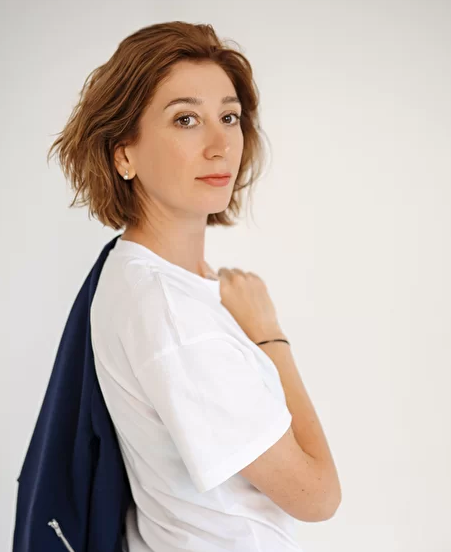
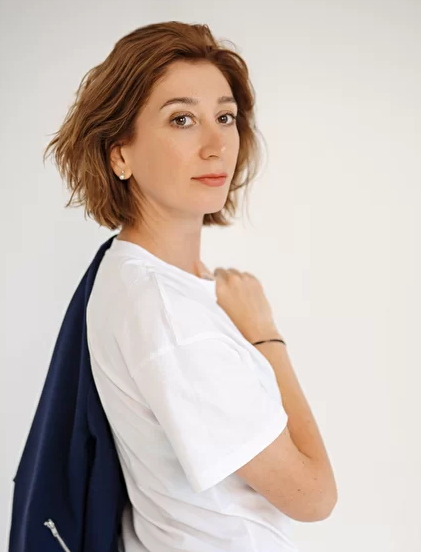
layout prepared for mobile devices

diff --git a/components/Cost.vue b/components/Cost.vue
@@ -1,47 +1,50 @@
 <!--NEXT Раздел "Стоимость"-->
 <template>
-<div class="col-md-12 s-container">
+<div class="col-12 s-container">
   <div>
     <h1 class="s-title">Стоимость услуг</h1>
     <div class="row">
-      <div class="col-md-1"></div>
-      <div class="col-md-4 block">
-        <h1 class="variant">Первичная консультация</h1>
-        <ul>
-          <li>На первой встрече я знакомлюсь, задаю вопросы, для меня важно услышать, с чем ты пришел, как устроена твоя жизнь</li>
-          <li>
-            Мне тоже можно задавать вопросы, это помогает снять напряжение ибо ты не на допросе. Диалог помогает развеять ожидания и страхи о терапии или того, что, терапевт- безупречный человек лишенный эмоций, препарирующий всех как лягушку взглядом
-          </li>
-          <li>
-            Мы обсудим, чего бы тебе хотелось от наших встреч и на основании того, что ты предъявляешь о себе, учитывая запрос, я предложу возможный формат работы
-          </li>
-          <li>Также мы обсудим границы наших отношений и график дальнейших встреч</li>
-        </ul>
-        <h2 class="text-center">3500руб / 50 мин</h2>
+      <div class="col-lg-6">
+        <div class="block">
+          <h1 class="variant">Первичная консультация</h1>
+          <ul>
+            <li>На первой встрече я знакомлюсь, задаю вопросы, для меня важно услышать, с чем ты пришел, как устроена твоя жизнь</li>
+            <li>
+              Мне тоже можно задавать вопросы, это помогает снять напряжение ибо ты не на допросе. Диалог помогает развеять ожидания и страхи о терапии или того, что, терапевт- безупречный человек лишенный эмоций, препарирующий всех как лягушку взглядом
+            </li>
+            <li>
+              Мы обсудим, чего бы тебе хотелось от наших встреч и на основании того, что ты предъявляешь о себе, учитывая запрос, я предложу возможный формат работы
+            </li>
+            <li>Также мы обсудим границы наших отношений и график дальнейших встреч</li>
+          </ul>
+          <h2 class="text-center">3500руб / 50 мин</h2>
+        </div>
       </div>
-      <div class="col-md-2"></div>
-      <div class="col-md-4 block">
-        <h1 class="variant">Долгосрочная терапия</h1>
-        <ul>
-          <li>Если ты решил работать со своей со-зависимостью и выбрал меня своим терапевтом, моя задача организовать стабильные терапевтические отношения</li>
-          <li>Поэтому, я беру в терапию клиентов только с постоянным сеттингом</li>
-          <li>Постоянный сеттинг это встречи в назначенный день и время четыре раза в месяц</li>
-          <li>
-            Постоянство необходимо для установления доверия в отношениях, поддержания механизмов психики связанных с сопротивлением и формированием нейронных связей. Это помогает регулировать количество и обеспечивает качество моей работы
-          </li>
-          <li>
-            Терапия это самое ценное, долгосрочное вложение в твою жизнь, и оно не измеримо ни с чем. Твои результаты остаются с тобой и работают на тебя в отличие от платьев и прочих временных атрибутов благополучия пожизненно
-          </li>
-        </ul>
-        <h2 class="text-center">14 000руб / 4 встречи</h2>
+      <div class="col-lg-6">
+        <div class="block">
+          <h1 class="variant">Долгосрочная терапия</h1>
+          <ul>
+            <li>Если ты решил работать со своей со-зависимостью и выбрал меня своим терапевтом, моя задача организовать стабильные терапевтические отношения</li>
+            <li>Поэтому, я беру в терапию клиентов только с постоянным сеттингом</li>
+            <li>Постоянный сеттинг это встречи в назначенный день и время четыре раза в месяц</li>
+            <li>
+              Постоянство необходимо для установления доверия в отношениях, поддержания механизмов психики связанных с сопротивлением и формированием нейронных связей. Это помогает регулировать количество и обеспечивает качество моей работы
+            </li>
+            <li>
+              Терапия это самое ценное, долгосрочное вложение в твою жизнь, и оно не измеримо ни с чем. Твои результаты остаются с тобой и работают на тебя в отличие от платьев и прочих временных атрибутов благополучия пожизненно
+            </li>
+          </ul>
+          <h2 class="text-center">14 000руб / 4 встречи</h2>
+        </div>
       </div>
     </div>
   </div>
 </div>
 </template>
 <style scoped>
-  .s-title{padding-bottom:40px;}
-  .block {background: #efefef;padding:20px 15px 5px;border-radius:20px;}
-  h1.variant{font-size:1.5rem;font-weight:bold;text-align:center;padding:10px 0;}
+  .s-title{padding-bottom:20px;}
+  .block {background: #efefef;margin:20px 10%;padding:20px 15px 5px;border-radius:20px;}
+  h1.variant{font-size:1.7rem;font-weight:bold;text-align:center;padding:10px 0 20px;}
   h2{font-size:1.3rem;font-weight:bold;padding:5px 0 30px;}
+  li{margin-bottom:7px;}
 </style>

diff --git a/components/Program.vue b/components/Program.vue
@@ -5,60 +5,61 @@
     <h1 class="s-title text-center">Программа индивидуальной работы</h1>
     <h2 class="title-comment">Ориентировочные темы нашей работы -<br/>компас на пути освобождения из со-зависимости</h2>
     <div class="row">
-      <div class="col-md-1"></div>
-      <div class="col-md-4 block">
-        <h1 class="c-title">Обозначаем маршрут</h1>
-        <ul class="dash">
-          <li>Увидеть и признать реальное положение в отношениях</li>
-          <li>Работа с чувствами и потребностями (страх, стыд, вина)</li>
-          <li>Умение управлять своими эмоциями</li>
-          <li>Инвентаризация жизни, наведение «порядка» во взаимоотношениях</li>
-        </ul>
+      <div class="col-md-6">
+        <div class="block">
+          <h1 class="c-title">Обозначаем маршрут</h1>
+          <ul class="dash">
+            <li>Увидеть и признать реальное положение в отношениях</li>
+            <li>Работа с чувствами и потребностями (страх, стыд, вина)</li>
+            <li>Умение управлять своими эмоциями</li>
+            <li>Инвентаризация жизни, наведение «порядка» во взаимоотношениях</li>
+          </ul>
+        </div>
       </div>
-      <div class="col-md-2"></div>
-      <div class="col-md-4 block">
-        <h1 class="c-title">Работаем с со-зависимыми моделями</h1>
-        <ul class="dash">
-          <li>Отрицание</li>
-          <li>Низкая самооценка</li>
-          <li>Уступчивость</li>
-          <li>Контроль</li>
-          <li>Избегание</li>
-        </ul>
+      <div class="col-md-6">
+        <div class="block">
+          <h1 class="c-title">Работаем с со-зависимыми моделями</h1>
+          <ul class="dash">
+            <li>Отрицание</li>
+            <li>Низкая самооценка</li>
+            <li>Уступчивость</li>
+            <li>Контроль</li>
+            <li>Избегание</li>
+          </ul>
+        </div>
       </div>
-      <div class="col-md-1"></div>
-      <div class="col-md-12"></div>
-      <div class="col-md-1"></div>
-      <div class="col-md-4 block">
-        <h1 class="c-title">Формируем здоровые стратегии</h1>
-        <ul class="dash">
-          <li>Признание</li>
-          <li>Устойчивая самооценка</li>
-          <li>Формирование здоровых границ и способность говорить НЕТ</li>
-          <li>Доверие, ответственность за свою жизнь</li>
-          <li>Открытость, способность разрешать конфликтные ситуации</li>
-          <li>Доверительные отношения вместо контроля</li>
-          <li>Способность удовлетворять свои потребности</li>
-        </ul>
+      <div class="col-md-6">
+        <div class="block">
+          <h1 class="c-title">Формируем здоровые стратегии</h1>
+          <ul class="dash">
+            <li>Признание</li>
+            <li>Устойчивая самооценка</li>
+            <li>Формирование здоровых границ и способность говорить НЕТ</li>
+            <li>Доверие, ответственность за свою жизнь</li>
+            <li>Открытость, способность разрешать конфликтные ситуации</li>
+            <li>Доверительные отношения вместо контроля</li>
+            <li>Способность удовлетворять свои потребности</li>
+          </ul>
+        </div>
       </div>
-      <div class="col-md-2"></div>
-      <div class="col-md-4 block">
-        <h1 class="c-title">Работаем с убеждениями</h1>
-        <ul class="dash">
-          <li>Работа с ограничивающими убеждениями, родительскими посланиями</li>
-          <li>Работа с травмами и разрешение травматического опыта</li>
-          <li>
-          	Работа с базовым правом
-          	<ul class="dash">
-          		<li>Быть</li>
-          		<li>Право на потребности</li>
-          		<li>На свою территорию и ее защиту</li>
-      		</ul>
-          </li>
-          <li>У вас будет поддержка и ресурсы менять свою жизнь</li>
-        </ul>
+      <div class="col-md-6">
+        <div class="block">
+          <h1 class="c-title">Работаем с убеждениями</h1>
+          <ul class="dash">
+            <li>Работа с ограничивающими убеждениями, родительскими посланиями</li>
+            <li>Работа с травмами и разрешение травматического опыта</li>
+            <li>
+            	Работа с базовым правом
+            	<ul class="dash">
+            		<li>Быть</li>
+            		<li>Право на потребности</li>
+            		<li>На свою территорию и ее защиту</li>
+        		</ul>
+            </li>
+            <li>У вас будет поддержка и ресурсы менять свою жизнь</li>
+          </ul>
+        </div>
       </div>
-      <div class="col-md-1"></div>
     </div>
   </div>
 </div>

diff --git a/components/AboutMe.vue b/components/AboutMe.vue
@@ -2,8 +2,8 @@
 <template>
 	<div class="col-12 muted s-container">
 		<div class="row">
-		  <div class="col-md-2"></div>
-		  <div class="col-12 col-md-4">
+			<div class="col-12 col-lg-1"></div>
+		  <div class="col-12 col-lg-5">
 		    <h1 class="s-title">Обо мне</h1>
 		    <h1 class="s-title">Гвоздовская Татьяна</h1>
 		    <div class="social">
@@ -24,7 +24,6 @@
 		    <button class="btn btn-primary" type="button" data-toggle="collapse" data-target="#more_about_me" aria-expanded="false" aria-controls="collapseExample">
 		      Узнай о моём подходе
 		    </button>
-
 		    <div class="collapse" id="more_about_me">
 		      <div class="card card-body">
 		      Друзья!<br/><br/>
@@ -40,20 +39,19 @@
 		      <br/><br/>
 		      Выбор за тобой!           
 		      </div>
+
 		   </div>            
 		  </div>
-		  <div class="col-12 col-md-6">
-		    <img src="img/tanya.png" class='img-fluid rounded'>
-		  </div>
+		  <div class="col-12 col-lg-4">
+		  	<img src="img/tanya.png" class='img-fluid'>
+	  	</div>
 		</div>
-		<div class="col-md-2">
 		</div>
 	</div>
 </template>
 <style scoped>
 	h1{padding:0 20px;}
 	h1:nth-child(1){padding-top:50px;}
-	@media (max-width: 767px) {}
 	h1:nth-child(2){font-size:1.5rem;}
 	ul{padding-left:35px;}
 	button{margin:15px 20px 30px;}
@@ -61,5 +59,6 @@
 	.social{margin-bottom:10px;padding:0 20px;}
 	.social img{margin-right:10px;}
 	.s-title{text-align:left;}
-	.img-fluid{padding:0 20px;}
+	.img-fluid{margin:0 20px;border-radius:25px;display:inline-block;}
+	#more_about_me{padding:20px;}
 </style>	

diff --git a/components/Start.vue b/components/Start.vue
@@ -2,11 +2,12 @@
 <template>
   <div class="col-md-12 container">
     <div class="row">
-      <div class="col-12 col-md-6 col-lg-4 logo">
-        <img src="img/logo.png" class='img-fluid rounded'>
+      <div class="col-12 col-lg-4 logo">
+        <img src="img/logo.png" class='img-fluid' style="border-radius:25px;">
       </div>
-      <div class="col-12 col-md-6 col-lg-6 text-center">
-        <h1>Как перестать думать только о других?<br/>Как научиться заботиться о себе?!</h1>
+      <div class="col-12 col-lg-6 text-center">
+        <h1>Как перестать думать только о других?</h1>
+        <h1 class="second">Как научиться заботиться о себе?!</h1>
         <div class="shift text-center">
           <ul class="dash">
       		  <li>Если ты задаёшь себе эти вопросы, то значит ты готов к изменениям в своей жизни</li>
@@ -24,7 +25,8 @@
   </div>
 </template>
 <style scoped>
-  h1{margin:50px 0 30px;font-size:2.5rem;}
+  h1{margin:50px 0 0px;font-size:2.5rem;}
+  h1.second{margin:0 0 30px;font-size:2.1rem;}
   h2{margin-left:-20px;font-size:1.5rem;font-weight:bold;}
   ul{padding-left:0px;margin-bottom:30px;}
   button{color:#fff;padding:10px 15px;font-size:1.1rem;margin-top:20px;}

diff --git a/components/Reviews.vue b/components/Reviews.vue
@@ -4,7 +4,7 @@
       <div class="row">
         <div class="col-md-2"></div>
         <div class="col-md-8">
-          <h1 class="text-center mb-4">Отзывы моих клиентов</h1>
+          <h1 class="text-center mb-4 pr-5">Отзывы моих клиентов</h1>
           <div class="row">
             <div class="col-12 col-lg-6">
               <div class="embed-responsive embed-responsive-16by9">
@@ -155,7 +155,7 @@
               </div>                      
             </div>
             <!--NEXT Отзыв 4-->
-            <div class="col-md-6">
+            <div class="col-lg-6">
               <div class="card">
                 <div class="content">
                   <span class="title">Алёна</span>
@@ -231,8 +231,8 @@ export default {
 }
 </script>
 <style scoped>
-  .video{margin:20px 15px;width:95%;}
-  .card{padding:15px;margin:30px 15px 0;border-radius:8px;}
+  .video{margin:20px;width:90%;}
+  .card{padding:15px;margin:30px 20px 0;border-radius:8px;}
   .card .title{font-size:1.6rem;}
   .card .action span{color:#007bff;}
   .card .action span:hover{text-decoration:underline;cursor:pointer;}

diff --git a/components/Faq.vue b/components/Faq.vue
@@ -1,7 +1,7 @@
 <!--NEXT Раздел "ЧАВО"-->
 <template>
-<div class="col-md-12 muted s-container">
-  <div>
+<div class="col-md-12">
+  <div class="s-container muted">
     <h1 class="s-title">Часто-задаваемые вопросы</h1>
     <div class="row">
       <div class="col-md-2"></div>
@@ -86,9 +86,9 @@
 </template>
 <style scoped>
   .s-title{padding-bottom:40px;}
-  .block {background: #fff;padding:10px 15px 30px;border-radius:20px;}
+  .block {background: #fff;padding:10px 15px 30px;margin:0 50px;border-radius:20px;}
   button, button:active, button:focus {
     font-size:1.3rem;background:none;border:none;outline:none;padding:10px 0 0 20px;cursor:pointer;
   }
-  p {padding:5px 100px 0 40px;}
+  p{padding:5px 100px 0 40px;}
 </style>

diff --git a/components/Group.vue b/components/Group.vue
@@ -4,7 +4,7 @@
       <div class="row">
         <div class="col-md-2"></div>
         <div class="col-md-8">
-          <h1 class="text-center mb-5 s-title">Работа в группах</h1>
+          <h1 class="text-center mb-4 s-title">Работа в группах</h1>
           <div class="row">
             <div class="col-md-6">
               <div class="embed-responsive embed-responsive-16by9">
@@ -39,4 +39,5 @@
 <style scoped>
   .s-container{padding-bottom:50px !important;}
   h3{padding:30px 0;text-align:center;font-size:1.1rem;}
+  .embed-responsive{margin-top:20px;}
 </style>

diff --git a/assets/css/main.css b/assets/css/main.css
@@ -7,6 +7,6 @@ ul.square{list-style-type:square;}
 /*Next Заголовки разделов*/
 .s-title{font-size:2rem;font-weight:bold;text-align:center;}
 /*Next Слегка приглушённый фон для разделов*/
-.muted {background:#efefef;padding:80px 0 !important;}
+.muted {background:#efefef;padding:80px 0 !important;border-radius:25px;}
 /*Next Общий отступ для разделов*/
 .s-container {padding:100px 0 !important;}
